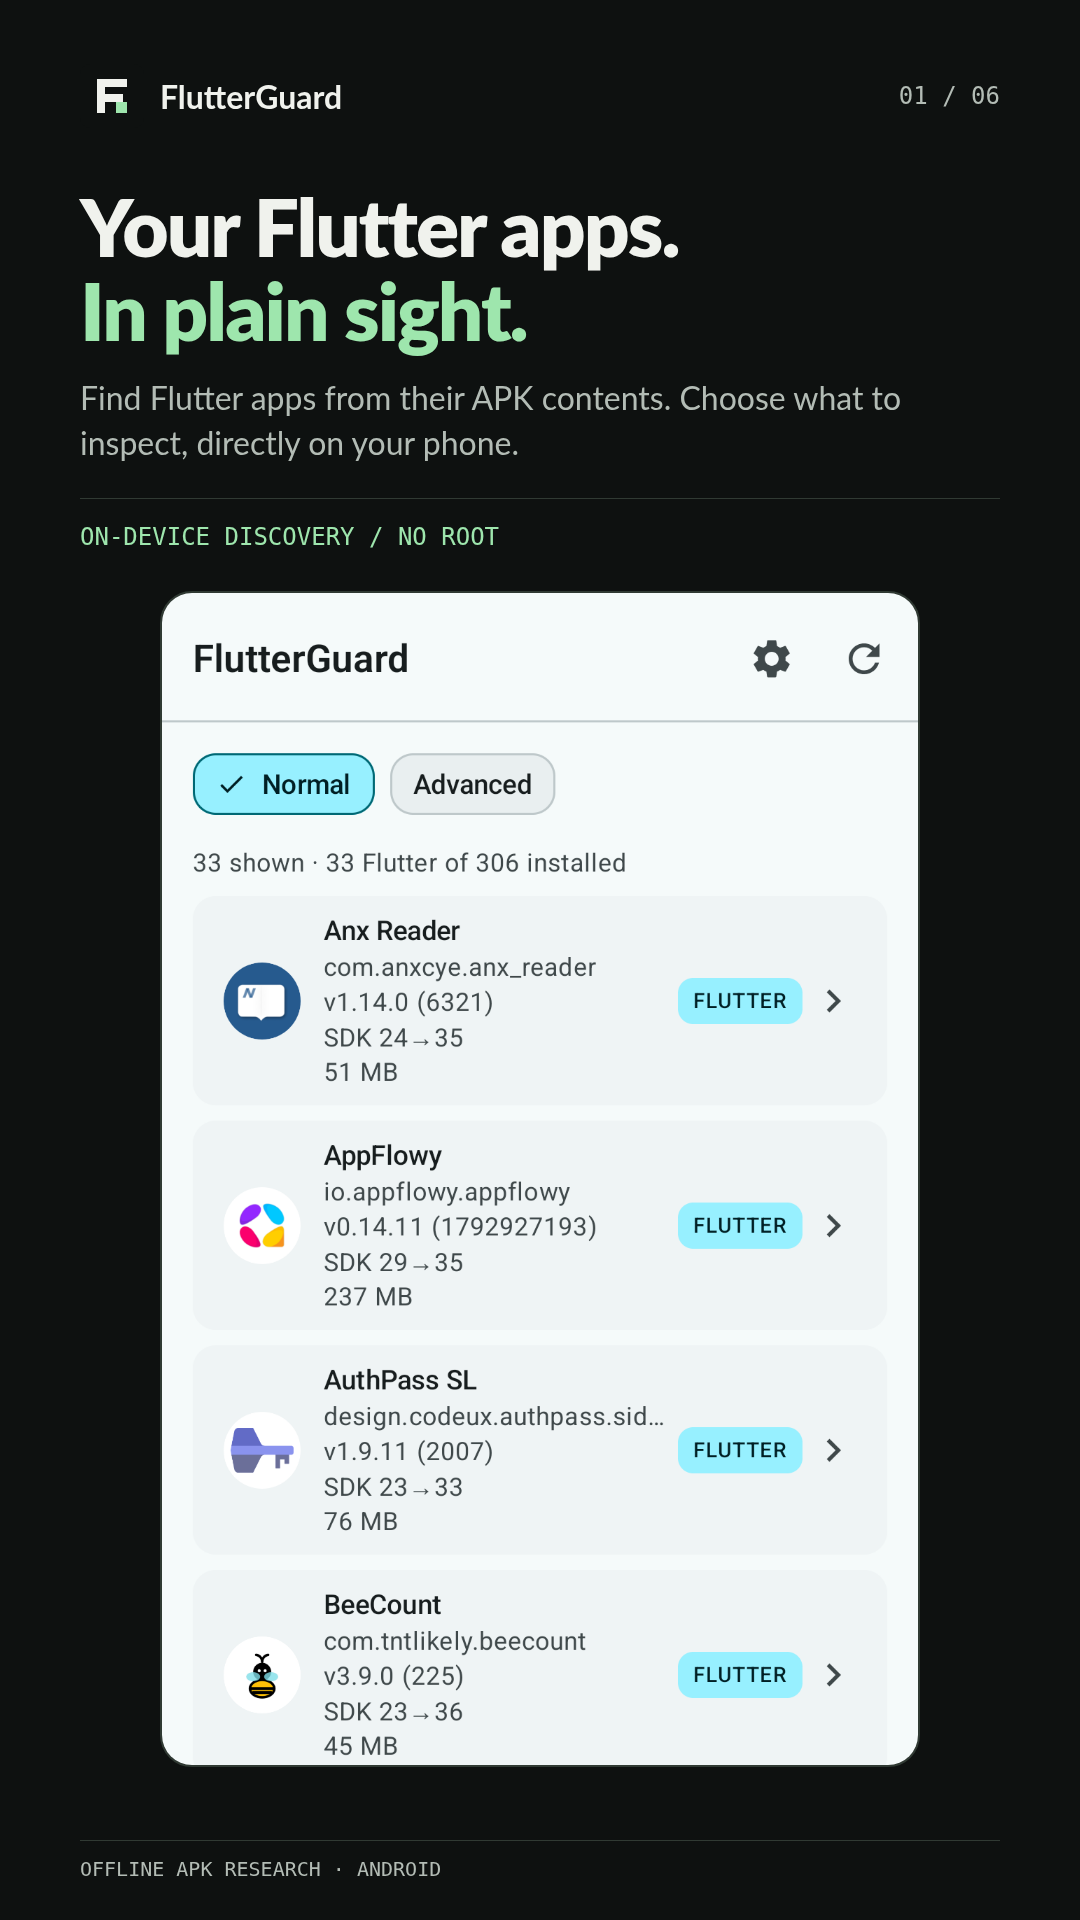
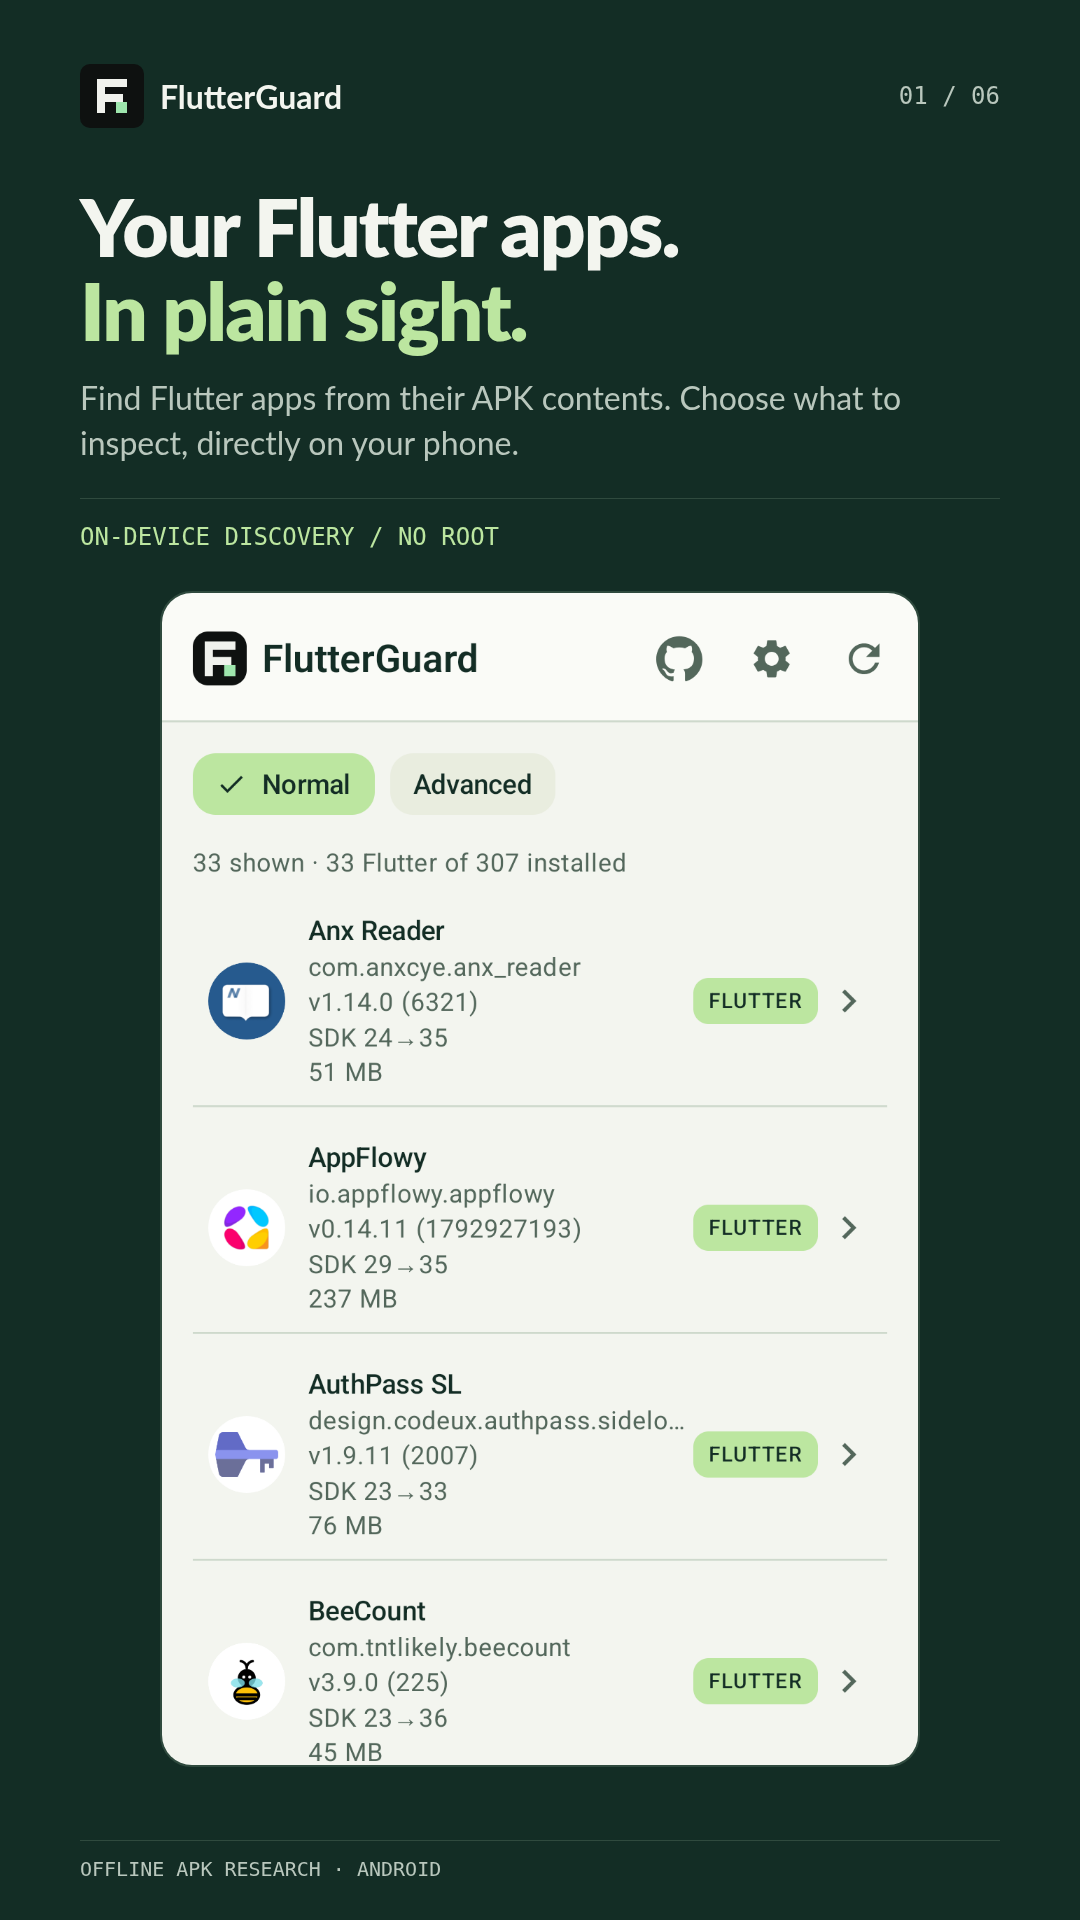
chore(release): 0.3.4 store art, notes and version bump
Rebuilt the six Play frames and the feature graphic from fresh device
captures of the rebranded UI, moved the frame palette to the site's forest
and mint, and refreshed the README screenshot captions. Version 0.3.4
(code 9) is the next GitHub build.

diff --git a/docs/play/feature.html b/docs/play/feature.html
@@ -1,6 +1,6 @@
 <!doctype html><html lang="en"><meta charset="utf-8"><title>FlutterGuard feature graphic</title>
 <style>
- :root{--base:#0e1110;--ink:#f0f2ed;--muted:#b3bcb5;--accent:#9ee6ad;--line:#303a33;
+ :root{--base:#132d25;--ink:#f3f5ef;--muted:#b9c7bd;--accent:#bce6a0;--line:#2f4a3e;
  --font: 'Lato',sans-serif;--mono:'DejaVu Sans Mono',monospace;--unit:8px}
  *{box-sizing:border-box}html,body{margin:0;width:1024px;height:500px;background:var(--base);color:var(--ink)}
  body{padding:64px;font-family:var(--font);position:relative}

diff --git a/docs/play/render.py b/docs/play/render.py
@@ -22,8 +22,8 @@ BRAND = HERE.parent / "brand"
 PAD = 88  # This Chromium build subtracts its window chrome from --window-size.
 
 TOKENS = """
-:root{--base:#0e1110;--surface:#181e1a;--ink:#f0f2ed;--muted:#b3bcb5;
---accent:#9ee6ad;--line:#303a33;--font:'Lato',sans-serif;
+:root{--base:#132d25;--surface:#1b3a2f;--ink:#f3f5ef;--muted:#b9c7bd;
+--accent:#bce6a0;--line:#2f4a3e;--font:'Lato',sans-serif;
 --mono:'DejaVu Sans Mono',monospace;--small:24px;--body:32px;--display:80px;
 --space:8px;--radius:32px;--shadow:none}
 """

diff --git a/README.md b/README.md
@@ -44,9 +44,9 @@ you what changed between two versions of the same app. That diff is where the re
 |---|---|---|
 | <img src="docs/play/screenshots/fg-01-inventory.png" width="240" alt="Installed Flutter app inventory"> | <img src="docs/play/screenshots/fg-02-grade.png" width="240" alt="Evidence-backed app grade and report summary"> | <img src="docs/play/screenshots/fg-03-findings.png" width="240" alt="Findings list: exported service, cleartext traffic and user CA trust"> |
 
-| Services and SDKs | Settings | Privacy |
+| Endpoints and routes | Settings | Privacy |
 |---|---|---|
-| <img src="docs/play/screenshots/fg-04-services.png" width="240" alt="Detected third-party services and SDKs"> | <img src="docs/play/screenshots/fg-05-settings.png" width="240" alt="Settings: notifications, scan history, scan-all and re-scan controls"> | <img src="docs/play/screenshots/fg-06-privacy.png" width="240" alt="Readable in-app privacy policy"> |
+| <img src="docs/play/screenshots/fg-04-services.png" width="240" alt="Candidate endpoints and route prefixes recovered from strings"> | <img src="docs/play/screenshots/fg-05-settings.png" width="240" alt="Settings: notifications, scan history, scan-all and re-scan controls"> | <img src="docs/play/screenshots/fg-06-privacy.png" width="240" alt="Readable in-app privacy policy"> |
 
 [Store assets and listing copy](docs/play/) · [App icon](docs/play/icon-512.png) · [Feature graphic](docs/play/feature-1024x500.png)
 
